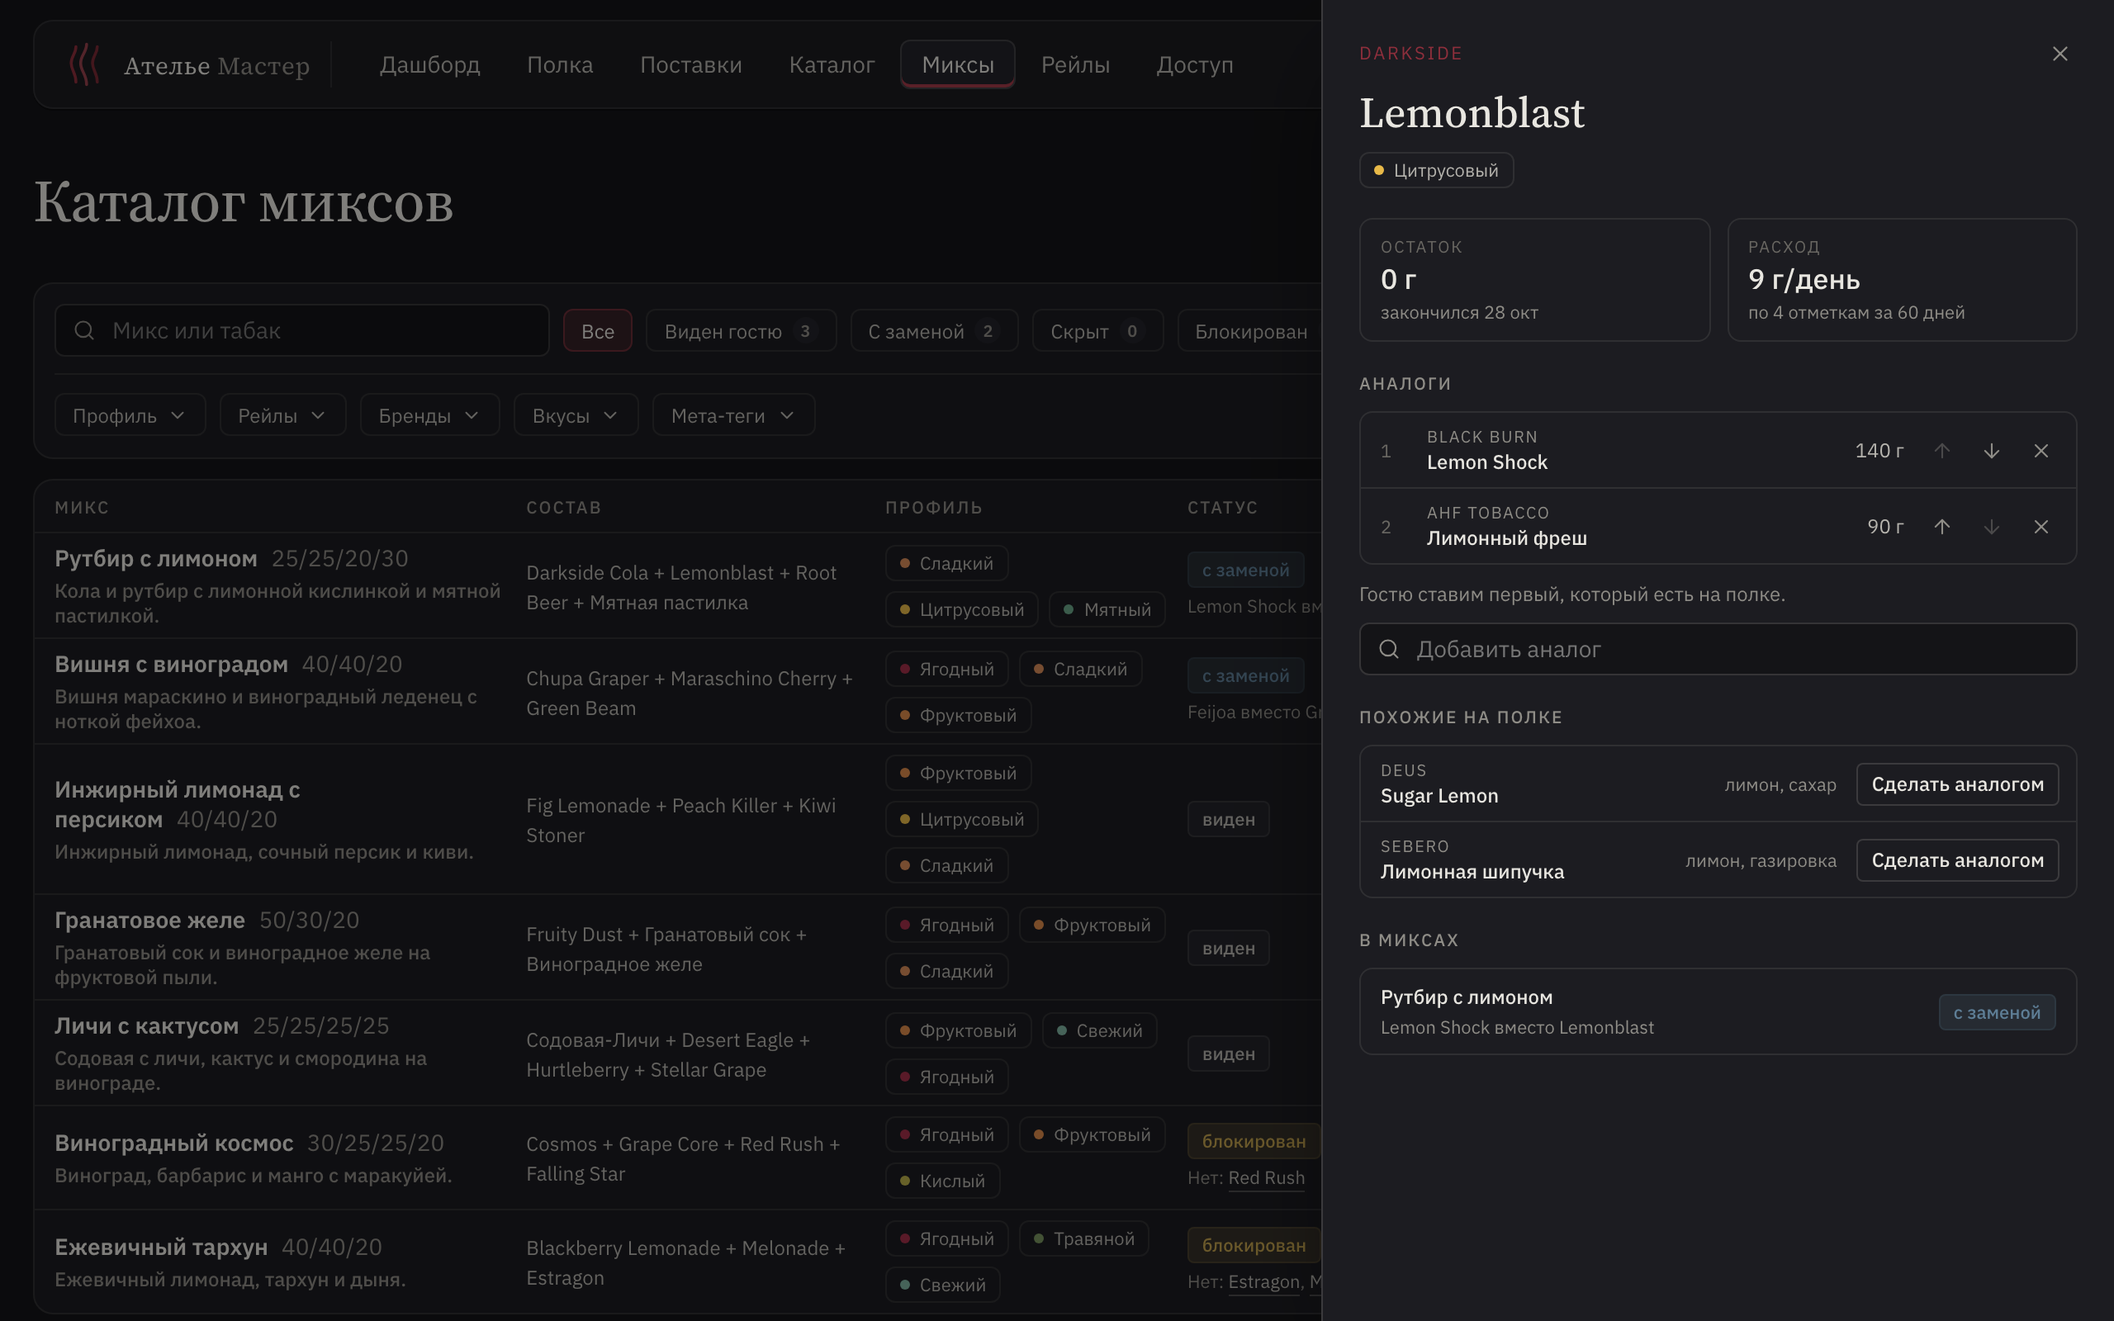
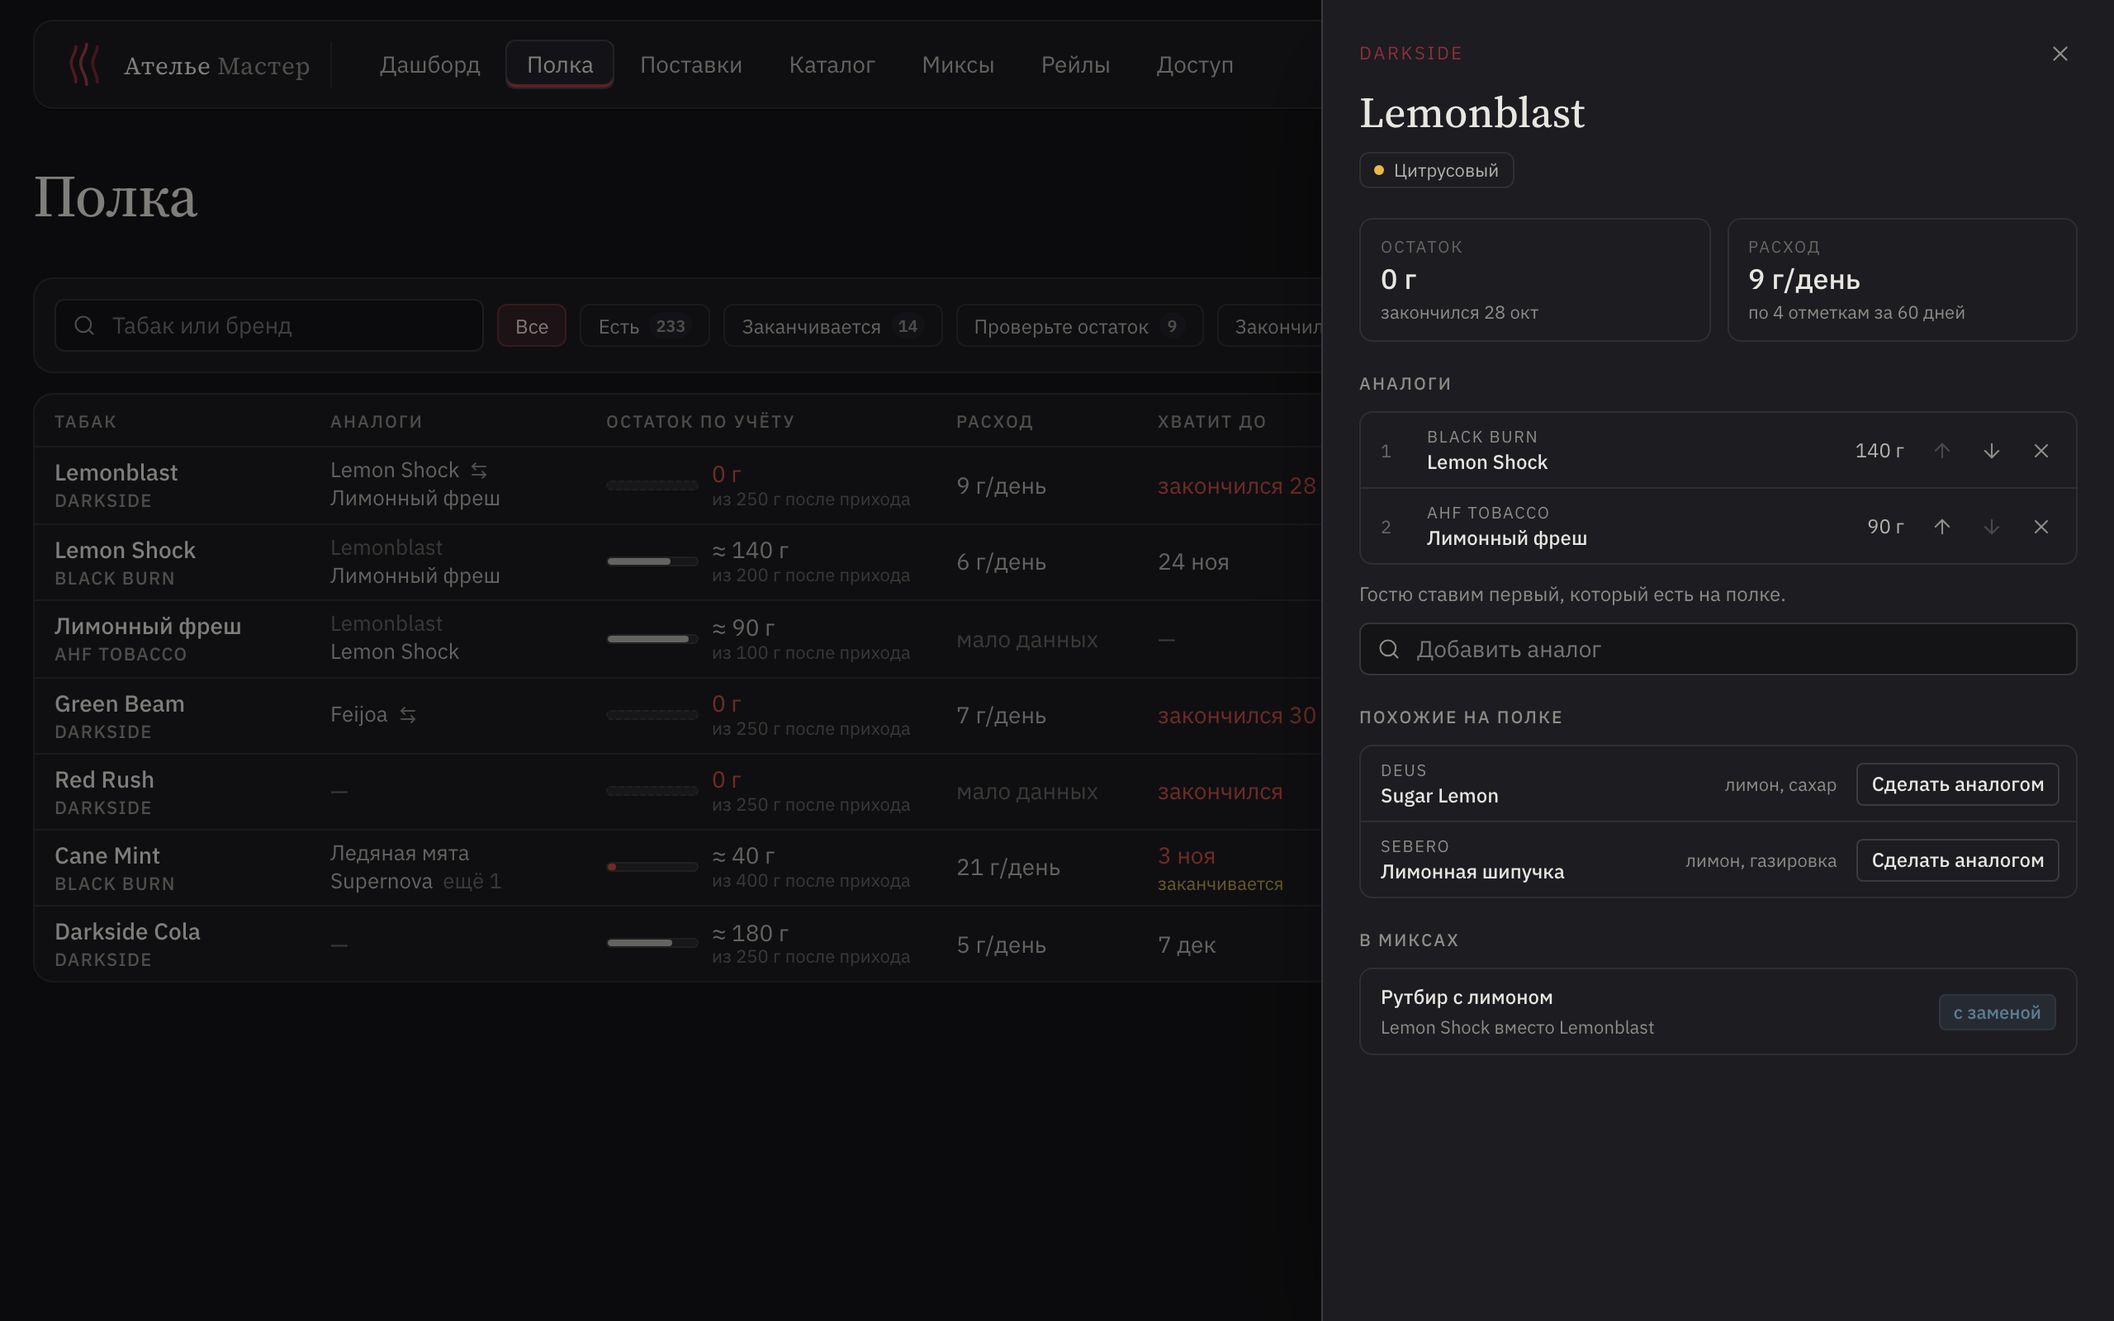
design: колонка «Аналоги» на «Полке» (#475)

diff --git a/design/design_handoff_tobacco_analogs/board.jsx b/design/design_handoff_tobacco_analogs/board.jsx
@@ -217,6 +217,105 @@ function MixesPage({ onMissing }) {
   );
 }
 
+// ── Мастер: экран «Полка» с колонкой «Аналоги» ──
+
+// Аналоги в строке — остальные табаки группы в порядке замены. sub — тот, что сейчас стоит в миксах вместо закончившегося.
+const AN_SHELF_ROWS = [
+  { id: 'lemonblast', manufacturer: 'Darkside', name: 'Lemonblast', left: 0, full: 250, rate: '9 г/день', until: 'закончился 28 окт', status: 'out', arrived: '2 окт', supplier: 'Южный табак', mixes: 1,
+    analogs: [{ name: 'Lemon Shock', on: true, sub: true }, { name: 'Лимонный фреш', on: true }] },
+  { id: 'lemonshock', manufacturer: 'Black Burn', name: 'Lemon Shock', left: 140, full: 200, rate: '6 г/день', until: '24 ноя', days: 23, status: 'ok', arrived: '20 окт', supplier: 'Каспий Опт', mixes: 2,
+    analogs: [{ name: 'Lemonblast', on: false }, { name: 'Лимонный фреш', on: true }] },
+  { id: 'lemonfresh', manufacturer: 'AHF Tobacco', name: 'Лимонный фреш', left: 90, full: 100, rate: 'мало данных', until: '—', status: 'ok', arrived: '27 окт', supplier: 'Каспий Опт', mixes: 0,
+    analogs: [{ name: 'Lemonblast', on: false }, { name: 'Lemon Shock', on: true }] },
+  { id: 'greenbeam', manufacturer: 'Darkside', name: 'Green Beam', left: 0, full: 250, rate: '7 г/день', until: 'закончился 30 окт', status: 'out', arrived: '2 окт', supplier: 'Южный табак', mixes: 1,
+    analogs: [{ name: 'Feijoa', on: true, sub: true }] },
+  { id: 'redrush', manufacturer: 'Darkside', name: 'Red Rush', left: 0, full: 250, rate: 'мало данных', until: 'закончился', status: 'out', arrived: '—', supplier: '', mixes: 1, analogs: [] },
+  { id: 'canemint', manufacturer: 'Black Burn', name: 'Cane Mint', left: 40, full: 400, rate: '21 г/день', until: '3 ноя', days: 2, status: 'ending', arrived: '20 окт', supplier: 'Каспий Опт', mixes: 3,
+    analogs: [{ name: 'Ледяная мята', on: true }, { name: 'Supernova', on: true }, { name: 'Spearmint', on: false }] },
+  { id: 'cola', manufacturer: 'Darkside', name: 'Darkside Cola', left: 180, full: 250, rate: '5 г/день', until: '7 дек', days: 36, status: 'ok', arrived: '20 окт', supplier: 'Южный табак', mixes: 2, analogs: [] },
+];
+
+function ShelfLevel({ row }) {
+  const share = row.full ? row.left / row.full : 0;
+  const tone = row.status === 'ending' ? ' crit' : '';
+  return (
+    <span className="lvl">
+      <span className={'lvl-bar' + tone + (row.left === 0 ? ' none' : '')}><i style={{ width: Math.max(row.left ? 4 : 0, share * 100) + '%' }} /></span>
+      <span className="lvl-copy">
+        <b className={row.left === 0 ? 'inv-danger' : ''}>{row.left === 0 ? '0 г' : '≈ ' + row.left + ' г'}</b>
+        <small>из {row.full} г после прихода</small>
+      </span>
+    </span>
+  );
+}
+
+function ShelfUntil({ row }) {
+  if (row.status === 'out') return <span className="inv-until"><span className="inv-danger">{row.until}</span></span>;
+  if (row.days == null) return <span className="inv-faint">—</span>;
+  return (
+    <span className="inv-until">
+      <span className={'inv-num' + (row.days <= 3 ? ' inv-danger' : '')}>{row.until}</span>
+      {row.status === 'ending' ? <small className="inv-warn">заканчивается</small> : null}
+    </span>
+  );
+}
+
+// Две первые строки группы, остальное — «ещё N». Закончившиеся приглушены, стоящий сейчас в миксах — с иконкой замены.
+function ShelfAnalogs({ row }) {
+  if (!row.analogs.length) return <span className="inv-faint">—</span>;
+  const head = row.analogs.slice(0, 2);
+  const rest = row.analogs.length - head.length;
+  return (
+    <span className="an-shelf-analogs" title={row.analogs.map((a) => a.name).join(', ')}>
+      {head.map((a, i) => (
+        <span key={a.name} className={'an-shelf-analog' + (a.on ? '' : ' off')}>
+          {a.name}
+          {a.sub ? <span className="an-sub-mark" role="img" aria-label="стоит в миксах вместо этого табака" title="стоит в миксах вместо этого табака"><Ic name="ArrowLeftRight" size={12} /></span> : null}
+          {i === 1 && rest ? <span className="inv-faint">ещё {rest}</span> : null}
+        </span>
+      ))}
+    </span>
+  );
+}
+
+function ShelfPage() {
+  const columns = [
+    { key: 'name', label: 'Табак', width: 'minmax(0,1fr)', render: (r) => <span className="inv-name"><b>{r.name}</b><span>{r.manufacturer}</span></span> },
+    { key: 'analogs', label: 'Аналоги', width: 'minmax(0,1fr)', render: (r) => <ShelfAnalogs row={r} /> },
+    { key: 'left', label: 'Остаток по учёту', width: '200px', render: (r) => <ShelfLevel row={r} /> },
+    { key: 'rate', label: 'Расход', width: '110px', render: (r) => <span className={r.rate === 'мало данных' ? 'inv-faint' : 'inv-num'}>{r.rate}</span> },
+    { key: 'until', label: 'Хватит до', width: '140px', render: (r) => <ShelfUntil row={r} /> },
+    { key: 'arrived', label: 'Приход', width: '110px', render: (r) => <span className="inv-name"><b style={{ fontWeight: 400 }}>{r.arrived}</b><span>{r.supplier}</span></span> },
+    { key: 'mixes', label: 'Миксы', width: '60px', align: 'right', render: (r) => <span className="inv-num">{r.mixes || <span className="inv-faint">—</span>}</span> },
+    { key: 'actions', label: '', width: '200px', align: 'right', render: (r) => (
+      r.status === 'out'
+        ? <span className="inv-faint">в заказе</span>
+        : <span className="cell-actions"><MasterButton size="sm" variant="ghost">Указать остаток</MasterButton><MasterButton size="sm">Закончился</MasterButton></span>
+    ) },
+  ];
+  return (
+    <div className="page">
+      <MasterPageHeader title="Полка" meta="269 позиций, 78 кг" actions={(
+        <span className="inv-seg">
+          <button aria-pressed="true">Полка</button>
+          <button aria-pressed="false">К заказу</button>
+          <button aria-pressed="false">Закупка</button>
+        </span>
+      )} />
+      <div className="an-toolbar">
+        <div className="an-toolbar-row">
+          <MasterInput placeholder="Табак или бренд" icon={<Ic name="Search" size={14} />} style={{ width: 260 }} />
+          {[['Все', null, true], ['Есть', 233], ['Заканчивается', 14], ['Проверьте остаток', 9], ['Закончились', 6], ['Стоп', 3], ['В плане', 4]].map(([label, count, active]) => (
+            <FilterChip key={label} active={active} count={count == null ? undefined : count}>{label}</FilterChip>
+          ))}
+          <MasterSortPill value="until" options={[{ key: 'until', label: 'Хватит до' }]} style={{ marginLeft: 'auto' }} />
+        </div>
+      </div>
+      <MasterList columns={columns} rows={AN_SHELF_ROWS} />
+    </div>
+  );
+}
+
 // ── Мастер: карточка табака на полке с блоком «Аналоги» ──
 
 function AnalogRow({ item, index, total }) {
@@ -300,7 +399,7 @@ function MasterDesk({ card, page = 'mixes' }) {
       <div className="desk-scroll">
         <main className="shell">
           <MasterTopBar markSrc={AN_MARK} items={AN_TABS} active={page} userName="maxim" userRole="master" onOpenCommandPalette={() => {}} />
-          <section className="stage"><MixesPage /></section>
+          <section className="stage">{page === 'shelf' ? <ShelfPage /> : <MixesPage />}</section>
         </main>
       </div>
       {card ? (
@@ -497,7 +596,8 @@ function GuestPhone({ view, sheet }) {
 
 const AN_SHOTS = [
   { id: 'mixes', group: 'master', name: 'Миксы', note: 'Новый статус «с заменой»: какой табак стоит вместо какого. У блокированного названо, чего нет, имя табака открывает его карточку. «Ежевичный тархун» блокирован: нет двух табаков, а замена допускается одна.', desk: {} },
-  { id: 'shelf-analogs', group: 'master', name: 'Карточка табака: аналоги заданы', note: 'Lemonblast закончился. Порядок в списке и есть порядок замены, стрелками меняется. Ниже похожие табаки с полки и миксы, где табак сейчас подменён.', desk: { card: 'lemonblast' } },
+  { id: 'shelf', group: 'master', name: 'Полка', note: 'Новая колонка «Аналоги»: остальные табаки группы в порядке замены. Закончившиеся приглушены. У закончившегося табака иконкой отмечен тот, что сейчас стоит вместо него в миксах. Если аналогов нет, в ячейке прочерк.', desk: { page: 'shelf' } },
+  { id: 'shelf-analogs', group: 'master', name: 'Карточка табака: аналоги заданы', note: 'Lemonblast закончился. Порядок в списке и есть порядок замены, стрелками меняется. Ниже похожие табаки с полки и миксы, где табак сейчас подменён.', desk: { card: 'lemonblast', page: 'shelf' } },
   { id: 'shelf-suggest', group: 'master', name: 'Карточка табака: аналогов нет', note: 'Открыта из «Миксов» по ссылке «Нет: Red Rush». Похожие на полке подобраны по flavors, «Сделать аналогом» в одно действие делает микс видимым с заменой.', desk: { card: 'redrush' } },
   { id: 'sheet-sub', group: 'guest', name: 'Карточка микса с заменой', note: 'Гость видит табак, который стоит на полке. После названия иконка замены. Остальное как у любого микса: оценка, «Покурить».', phone: { view: 'catalog', sheet: { mix: 'rootbeer' } } },
   { id: 'confirm-sub', group: 'guest', name: 'Покажите мастеру', note: 'Мастер собирает по этому экрану, поэтому замена видна и здесь.', phone: { view: 'confirm' } },

diff --git a/design/design_handoff_tobacco_analogs/mockups.html b/design/design_handoff_tobacco_analogs/mockups.html
@@ -580,6 +580,9 @@ body{font-family:var(--font-body);color:var(--text-primary);overflow-x:hidden;ba
 .an-stack-brand{font-size:12px;color:var(--text-muted);white-space:nowrap}
 .an-stack-name{display:flex;align-items:center;gap:6px;min-width:0;font-size:13px;color:var(--text-primary)}
 .an-sub-mark{display:inline-flex;flex:none;color:var(--text-muted)}
+.an-shelf-analogs{display:grid;gap:1px;min-width:0;line-height:1.25}
+.an-shelf-analog{display:flex;align-items:center;gap:6px;min-width:0;font-size:13px;color:var(--text-secondary);white-space:nowrap;overflow:hidden;text-overflow:ellipsis}
+.an-shelf-analog.off{color:var(--text-faint)}
 .an-stack-pct{font-size:13px;color:var(--text-primary);font-variant-numeric:tabular-nums;font-weight:500}
 
 </style>

diff --git a/design/design_handoff_tobacco_analogs/README.md b/design/design_handoff_tobacco_analogs/README.md
@@ -18,6 +18,7 @@ python3 -m http.server 8765 --bind 127.0.0.1
 | id | экран |
 |---|---|
 | `mixes` | Мастер, «Миксы»: статусы «с заменой» и «блокирован» с причиной |
+| `shelf` | Мастер, «Полка»: колонка «Аналоги» |
 | `shelf-analogs` | Мастер, карточка табака: аналоги заданы |
 | `shelf-suggest` | Мастер, карточка табака: аналогов нет, похожие на полке |
 | `sheet-sub` | Гость, карточка микса с заменой |
@@ -33,6 +34,15 @@ python3 -m http.server 8765 --bind 127.0.0.1
   - у микса с заменой — `MasterTag` «с заменой» (tone `info`), под ним «Lemon Shock вместо Lemonblast»;
   - у блокированного — `MasterTag` «блокирован» (tone `warning`), под ним «Нет: Red Rush». Имя табака — ссылка, она открывает карточку этого табака с полки.
 - В колонке «Состав» остаётся рецепт мастера, без подмены.
+
+### Мастер, «Полка»
+
+- Новая колонка «Аналоги» сразу после «Табак». В ней остальные табаки группы в порядке замены, каждый на своей строке.
+  - Видны два первых, дальше приглушённое «ещё N». Полный список в подсказке при наведении.
+  - Закончившиеся аналоги приглушены (`--text-faint`).
+  - У закончившегося табака тот аналог, который сейчас стоит вместо него в миксах, отмечен иконкой `ArrowLeftRight`, как у гостя.
+  - Если аналогов нет, в ячейке прочерк.
+- Группа одна на всех, поэтому у Lemon Shock в аналогах Lemonblast и Лимонный фреш, а у Lemonblast — Lemon Shock и Лимонный фреш.
 
 ### Мастер, карточка табака (шторка полки)
 
